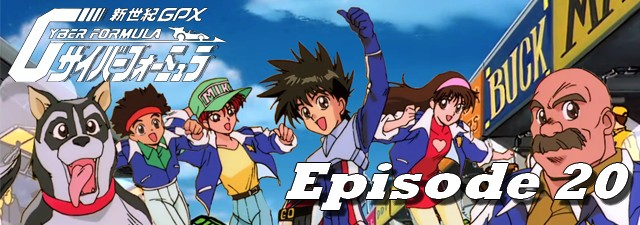
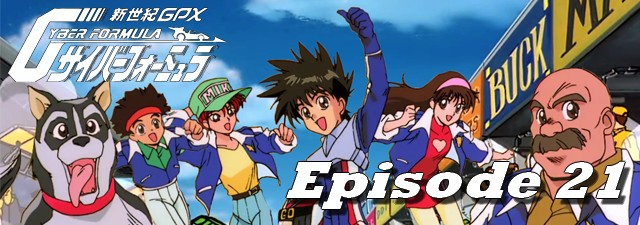
new release

Changed region(s): [[0.4375, 0.7156, 1.0, 0.9644]]

diff --git a/2015-12-21.html b/2015-12-21.html
@@ -1,0 +1,103 @@
+<!DOCTYPE html>
+<html lang="fr-FR">
+	<head>
+		<title>Future GPX Cyber Formula BD 21 vostfr | Nobluesky Fansub</title>
+		<meta charset="utf-8" />
+		<link rel="Shortcut Icon" type="image/x-icon" href="favicon.ico" />
+		<link href="fonts/fonts.css" rel="stylesheet" type="text/css" />
+		<link href="style.css" rel="stylesheet" type="text/css" media="screen" />
+		<link rel="stylesheet" href="menu.css" type="text/css" />
+		<script src="jquery.js" type="text/javascript"></script>
+		<script src="background-script.js" type="text/javascript"></script>
+	</head>
+<body>
+<div class="banner">
+	<a title="Nobluesky Fansub" href="index.html"> <img class="banner" alt="Nobluesky Fansub" title="Nobluesky Fansub" src="images/banner.png"/> </a>
+</div>
+<!-- end banner -->
+<div id="menu-wrapper">
+	<div id="menu">
+		<script type="text/javascript">
+		$( '#menu' ).load( 'menu.html' );
+		</script>
+		<noscript>Activez javascript pour voir le menu!</noscript>
+	</div>
+</div>
+<!-- end #menu -->
+<div id="page-wrapper">
+<div id="sidebar-wrapper">
+	<div id="sidebar">
+		<script type="text/javascript">
+		$( '#sidebar' ).load( 'sidebar.html' );
+		</script>
+	</div>
+	<!-- end #sidebar -->
+</div>
+	<div id="article">
+		<div id="content">
+			<div class="post">
+				<h1 class="title">Future GPX Cyber Formula BD 21 vostfr</h1>
+				<p class="meta"><span class="date">21 Décembre 2015</span><span class="posted">Posté par <a href="about.html#nobluesky">Nobluesky</a></span></p>
+				<div style="clear: both;">&nbsp;</div>
+				<div class="entry">
+					<img class="post-images" src="images/2015/news22.jpg" alt="" />
+					<p>Bonsoir tout le monde!</p>
+					<p>L'esprit a vaincu la matière, c'est pas un PC qui m'empêchera de vous donner votre épisode pour Noël!</p>
+					<p>Désolé pour le retard.</p>
+					<p>Je ne sais pas ce que vous allez manger le soir du réveillon, mais normalement si vous ne vivez pas au Japon, vous avez peu de chances de tomber sur du <a href="https://fr.wikipedia.org/wiki/Fugu">Fugu</a>. C'que ça doit être flippant de manger un truc pareil!</p>
+					<p>Pour éviter le spoil, je vous mets une image de V-8, moi aussi je veux un gros toutou comme lui :3 Bref tout ça pour dire que l'épisode sera fort intéressant et fait avancer l'histoire.</p>
+					<p>Bref, Joyeux Noël et bon épisode!</p>
+					<h3>Téléchargements et streaming</h3>
+					<p class="links dl"><a href="http://jheberg.net/captcha/fgpxcf-21-vostfr-bd/" class="button-dl">Jheberg</a></p>&nbsp; | &nbsp;
+					<p class="links dl"><a href="http://rutube.ru/video/7f2a480ed9a327a01c42718f86a5807d/" class="button-dl">Rutube</a></p>&nbsp; | &nbsp;
+					<p class="links dl"><a href="https://mega.nz/#!ncUEUJZJ!yW6MYrlfpDCT1s-C3jgRDWvUEjxuL4kWuvk7VdvDWOs" class="button-dl">Mega</a></p>
+					<h3>Commentaires</h3>
+					<div id="disqus_thread"></div>
+					<script type="text/javascript">
+						/* * * CONFIGURATION VARIABLES: EDIT BEFORE PASTING INTO YOUR WEBPAGE * * */
+						var disqus_shortname = 'noblueskyfansub'; // required: replace example with your forum shortname
+
+						/* * * DON'T EDIT BELOW THIS LINE * * */
+						(function() {
+							var dsq = document.createElement('script'); dsq.type = 'text/javascript'; dsq.async = true;
+							dsq.src = '//' + disqus_shortname + '.disqus.com/embed.js';
+							(document.getElementsByTagName('head')[0] || document.getElementsByTagName('body')[0]).appendChild(dsq);
+						})();
+					</script>
+					<noscript>Activez javascript pour voir les commentaires.</noscript>
+					<a href="http://disqus.com" class="dsq-brlink">commentaires propulsés par <span class="logo-disqus">Disqus</span></a>
+				</div>
+			</div>
+			<div style="clear: both;">&nbsp;</div>
+		</div>
+		<!-- end #content -->
+		<div style="clear: both;">&nbsp;</div>
+	</div>
+</div>
+<!-- end #page -->
+<script type="text/javascript">
+$(window).scroll(function() {
+    if ($(this).scrollTop() < 1000) {
+        $("#footer").hide();
+    }
+    else {
+        $("#footer").show();
+    }
+});
+$(window).scroll(function() {
+  if ($(this).scrollTop() < 1000) {
+    $("footer").slideUp();
+      }
+  else {
+    $("footer").slideDown();
+      }
+});		
+</script>
+<div id="footer">
+	<script type="text/javascript">
+	$( '#footer' ).load( 'footer.html' );
+	</script>
+</div>
+<!-- end #footer -->
+</body>
+</html>

diff --git a/page2.html b/page2.html
@@ -31,7 +31,7 @@
 	<div class="slider-wrapper theme-default">
 		<div class="ribbon"></div>
 		<div id="slider" class="nivoSlider">
-			<a href="2015-12-13.html"><img src="images/img01.jpg" alt="" /></a><img src="images/img02.jpg" alt="" />
+			<a href="2015-12-21.html"><img src="images/img01.jpg" alt="" /></a><img src="images/img02.jpg" alt="" />
 		</div>
 	</div>
 <script type="text/javascript">
@@ -50,6 +50,19 @@
 </div>
 	<div id="feed">
 		<div id="content">
+			<div class="post">
+				<h1 class="title"><a href="2015-11-15.html">Future GPX Cyber Formula BD 16 vostfr</a></h1>
+				<p class="meta"><span class="date">15 Novembre 2015</span><span class="posted">Posté par <a href="about.html#nobluesky">Nobluesky</a></span></p>
+				<p><a href="http://nobluesub.com/2015-11-15.html#disqus_thread">Commentaires</a></p>
+				<div style="clear: both;">&nbsp;</div>
+				<div class="entry">
+					<img class="post-images" src="images/2015/news17.jpg" alt="" />
+					<p>Bonsoir,</p>
+					<p>Pour vous changer les idées, voici la suite tant attendue de la course du Pérou, avec un enjeu potentiellement dramatique si Hayato échoue^^ (ben oui faudrait pas décevoir Rita!)</p>
+					<p>Bon épisode.</p>
+					<p class="links"><a href="2015-11-21.html" class="button">Lire la suite</a></p>
+				</div>
+			</div>
 			<div class="post">
 				<h1 class="title"><a href="2015-11-08.html">Future GPX Cyber Formula BD 15 vostfr</a></h1>
 				<p class="meta"><span class="date">8 Novembre 2015</span><span class="posted">Posté par <a href="about.html#nobluesky">Nobluesky</a></span></p>
@@ -101,18 +114,6 @@
 					<p>Malgré quelques soucis pour l'envoi de cet épisode, le voici enfin en ligne, après plus de cinq jours à tenter de l'uploader^^</p>
 					<p>Hayato a besoin de réfléchir un peu après son échec...</p>
 					<p class="links"><a href="2015-08-17.html" class="button">Lire la suite</a></p>
-				</div>
-			</div>
-			<div class="post">
-				<h1 class="title"><a href="2015-06-27.html">Future GPX Cyber Formula BD 11 vostfr</a></h1>
-				<p class="meta"><span class="date">27 Juin 2015</span><span class="posted">Posté par <a href="about.html#nobluesky">Nobluesky</a></span></p>
-				<p><a href="http://nobluesub.com/2015-06-27.html#disqus_thread">Commentaires</a></p>
-				<div style="clear: both;">&nbsp;</div>
-				<div class="entry">
-					<img class="post-images" src="images/2015/news12.jpg" alt="" />
-					<p>Bonjour à tous!</p>
-					<p>Voici votre épisode, tout frais pour le week-end qui s'annonce plutôt chaud, mais pas autant que...</p>
-					<p class="links"><a href="2015-06-27.html" class="button">Lire la suite</a></p>
 				</div>
 			</div>
 			<div id="button-page-wrapper">

diff --git a/index.html b/index.html
@@ -35,7 +35,7 @@
 	<div class="slider-wrapper theme-default">
 		<div class="ribbon"></div>
 		<div id="slider" class="nivoSlider">
-			<a href="2015-12-13.html"><img src="images/img01.jpg" alt="" /></a><img src="images/img02.jpg" alt="" />
+			<a href="2015-12-21.html"><img src="images/img01.jpg" alt="" /></a><img src="images/img02.jpg" alt="" />
 		</div>
 	</div>
 <script type="text/javascript">
@@ -60,6 +60,18 @@
 				<div style="clear: both;">&nbsp;</div>
 				<div class="entry">
 					<p>Bienvenue sur le site de la Nobluesky Fansub!</p>
+				</div>
+			</div>
+			<div class="post">
+				<h1 class="title"><a href="2015-12-21.html">Future GPX Cyber Formula BD 21 vostfr</a></h1>
+				<p class="meta"><span class="date">21 Décembre 2015</span><span class="posted">Posté par <a href="about.html#nobluesky">Nobluesky</a></span></p>
+				<p><a href="http://nobluesub.com/2015-12-21.html#disqus_thread">Commentaires</a></p>
+				<div style="clear: both;">&nbsp;</div>
+				<div class="entry">
+					<img class="post-images" src="images/2015/news22.jpg" alt="" />
+					<p>Bonsoir tout le monde!</p>
+					<p>L'esprit a vaincu la matière, c'est pas un PC qui m'empêchera de vous donner votre épisode pour Noël! Désolé pour le retard...</p>
+					<p class="links"><a href="2015-12-21.html" class="button">Lire la suite</a></p>
 				</div>
 			</div>
 			<div class="post">
@@ -113,19 +125,6 @@
 					<p>Toute l'équipe se prépare pour la course suivante, mais attention, il faut garder le moral des troupes pour avancer!</p>
 					<p>Quoi de mieux que de la bonne musique pour ce faire? Vous pouvez même retrouver...</p>
 					<p class="links"><a href="2015-11-24.html" class="button">Lire la suite</a></p>
-				</div>
-			</div>
-			<div class="post">
-				<h1 class="title"><a href="2015-11-15.html">Future GPX Cyber Formula BD 16 vostfr</a></h1>
-				<p class="meta"><span class="date">15 Novembre 2015</span><span class="posted">Posté par <a href="about.html#nobluesky">Nobluesky</a></span></p>
-				<p><a href="http://nobluesub.com/2015-11-15.html#disqus_thread">Commentaires</a></p>
-				<div style="clear: both;">&nbsp;</div>
-				<div class="entry">
-					<img class="post-images" src="images/2015/news17.jpg" alt="" />
-					<p>Bonsoir,</p>
-					<p>Pour vous changer les idées, voici la suite tant attendue de la course du Pérou, avec un enjeu potentiellement dramatique si Hayato échoue^^ (ben oui faudrait pas décevoir Rita!)</p>
-					<p>Bon épisode.</p>
-					<p class="links"><a href="2015-11-15.html" class="button">Lire la suite</a></p>
 				</div>
 			</div>
 			<div id="button-page-wrapper">

diff --git a/stream/futuregpxcf21.html b/stream/futuregpxcf21.html
@@ -1,0 +1,31 @@
+<!DOCTYPE html>
+<html lang="fr">
+<head>
+	<title>Streaming Nobluesub | Lecture en cours</title>
+	<link rel="Shortcut Icon" type="image/x-icon" href="favicon.ico" />
+	<meta charset="UTF-8" />
+	<link rel="stylesheet" href="style.css"/>
+	<script src="jquery.js" type="text/javascript"></script>
+</head>
+
+<body>
+<div id="feed">
+	<a title="Nobluesky stream" href="index.html"> <img id="banner" alt="Nobluesky Stream" title="Nobluesky Stream | Accueil" src="images/banner.png"/> </a>
+		<p><a href="futuregpxcf.html">Retour à la liste des épisodes</a></p>
+			<video id="player" controls alt="video">
+				<source src="http://stream.nobluesub.com:17970/share/vMJ6_3wBVsKihqUB/21.mp4" type="video/mp4">
+					<p>Désolé, votre navigateur est ancien et/ou ne supporte pas html5.</p>
+				</object>
+			</video>
+<p id="copy">Design par Nobluesky</p>
+</div>
+<!-- end feed -->
+<div id="sidebar">
+<script type="text/javascript">
+		$( '#sidebar' ).load( 'sidebar.html' );
+</script>
+<noscript>Activez javascript pour voir tout le contenu!</noscript>
+</div>
+<!-- end sidebar -->
+</body>
+</html>

diff --git a/future-gpx-cyber-formula.html b/future-gpx-cyber-formula.html
@@ -148,6 +148,11 @@
 					<p class="links dl"><a href="http://jheberg.net/captcha/fgpxcf-20-vostfr-bd/" class="button-dl">Jheberg</a></p>&nbsp; | &nbsp;
 					<p class="links dl"><a href="http://rutube.ru/video/d6e4a9f754bdaa6dfeed5adb6b9b74d4/" class="button-dl">Rutube</a></p>&nbsp; | &nbsp;
 					<p class="links dl"><a href="https://mega.nz/#!aBUxxZxA!AN-09d4HuzYKVxA3dgeyM-0dGMkZpCkxLBGIhHe2gCM" class="button-dl">Mega</a></p>
+					<br>
+					Episode 21 : 
+					<p class="links dl"><a href="http://jheberg.net/captcha/fgpxcf-21-vostfr-bd/" class="button-dl">Jheberg</a></p>&nbsp; | &nbsp;
+					<p class="links dl"><a href="http://rutube.ru/video/7f2a480ed9a327a01c42718f86a5807d/" class="button-dl">Rutube</a></p>&nbsp; | &nbsp;
+					<p class="links dl"><a href="https://mega.nz/#!ncUEUJZJ!yW6MYrlfpDCT1s-C3jgRDWvUEjxuL4kWuvk7VdvDWOs" class="button-dl">Mega</a></p>
 					
 					<h4>Version SD (640x480) non remasterisée (abandonnée)</h4>
 					Episode 01 : 

diff --git a/archives.html b/archives.html
@@ -45,6 +45,7 @@
 					<div>
 					 <!-- here comes spoiler content --> 
 					<div style="clear: both;">&nbsp;</div>
+					<p><a href="2015-06-27.html" target="_blank" >Future GPX Cyber Formula BD 11 vostfr</a></p>
 					<p><a href="2015-06-20.html" target="_blank" >Future GPX Cyber Formula BD 10 vostfr</a></p>
 					<p><a href="2015-06-13.html" target="_blank" >Pack Future GPX Cyber Formula BD 08-09 vostfr</a></p>
 					<p><a href="2015-05-30.html" target="_blank" >Future GPX Cyber Formula BD 07 vostfr</a></p>

diff --git a/sidebar.html b/sidebar.html
@@ -29,9 +29,9 @@
 		<li>
 			<h2>Avancements</h2>
 			<ul>
-				<li>Future GPX Cyber Formula BD 21 : 80%
+				<li>Future GPX Cyber Formula BD 21 : 100%
 					<div class="progress-bar blue stripes" title="Time : 25%; Trad : 50%; Check/Qcheck : 65%; Enco : 75%; Upload en cours : 80%" >
-					<span style="width: 80%"></span>
+					<span style="width: 100%"></span>
 					</div>
 				</li>
 			</ul>

diff --git a/stream/futuregpxcf.html b/stream/futuregpxcf.html
@@ -32,6 +32,7 @@
 	<p><a href="futuregpxcf18.html">Episode 18</a></p>
 	<p><a href="futuregpxcf19.html">Episode 19</a></p>
 	<p><a href="futuregpxcf20.html">Episode 20</a></p>
+	<p><a href="futuregpxcf21.html">Episode 21</a></p>
 	<br>
 	<br>
 <p id="copy">Design par Nobluesky</p>
